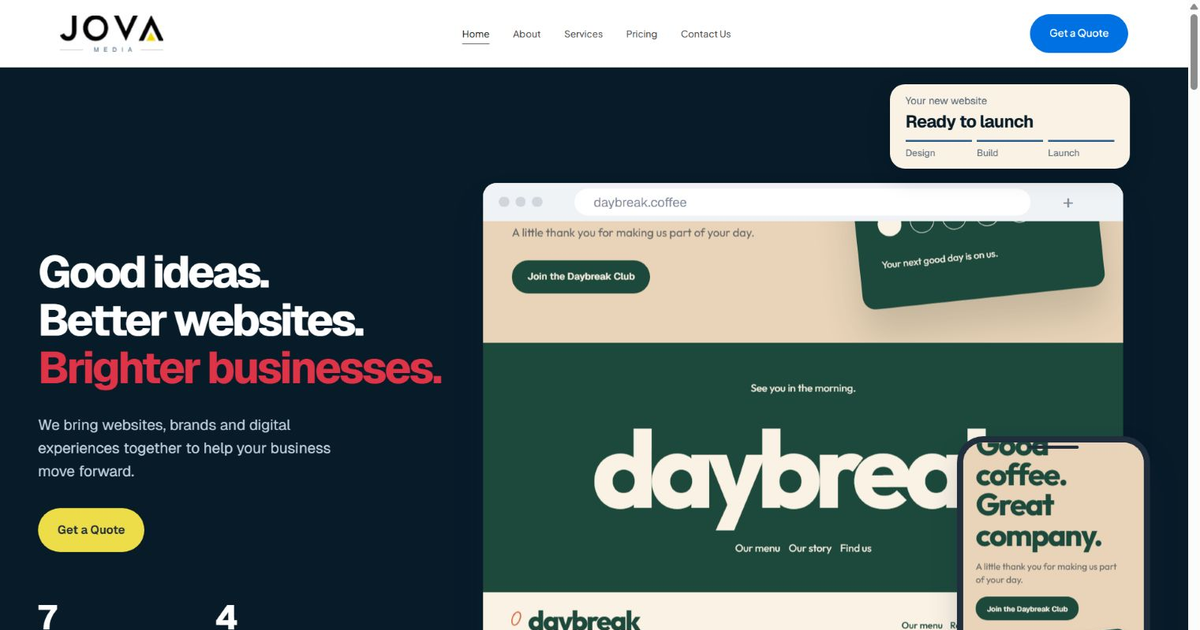
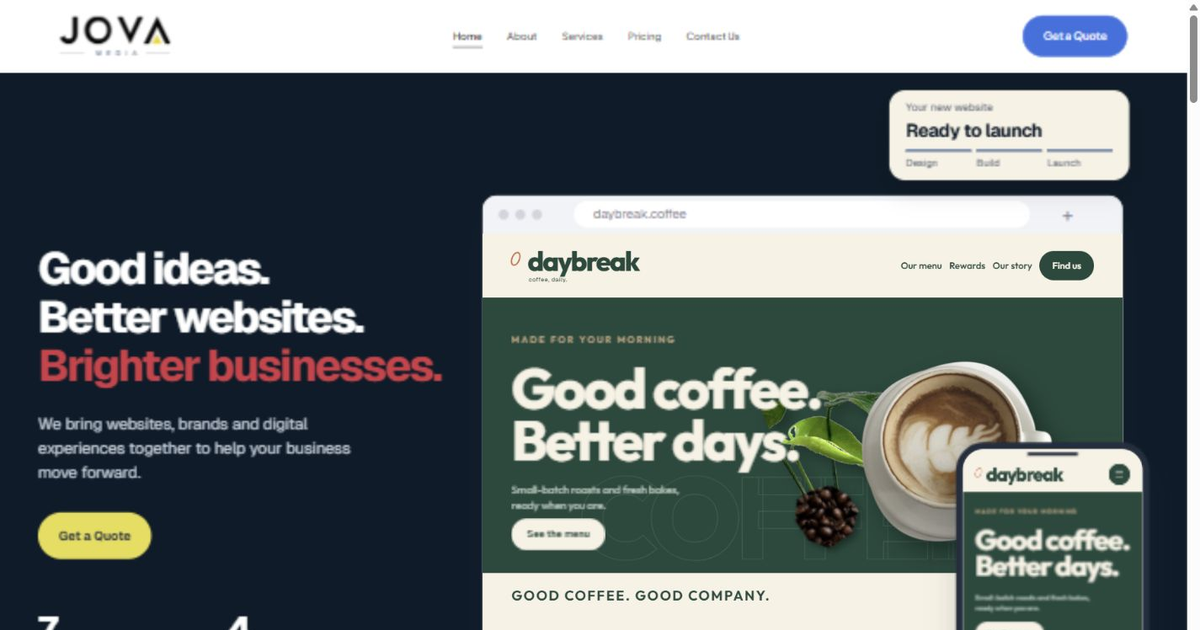
Centre pricing and polish responsive service and FAQ motion

diff --git a/components/StudioHome.js b/components/StudioHome.js
@@ -11,6 +11,7 @@ import WhyJovaPreview from "./WhyJovaPreview";
 import { ProcessStory, FaqStory } from "./ScrollStories";
 import { trackEvent } from "@/lib/marketing-analytics.mjs";
 import s from "./StudioHome.module.css";
+import MotionRegion from "./MotionRegion";
 
 const rows = [
   [["qaiser-watches", "Qaiser Watches"], ["monolith", "Monolith"], ["elise", "Elise"], ["stem-club", "Stem Club"], ["sumera-current", "Sumera’s"], ["tamarind", "Tamarind"], ["bare-form", "Bare Form"], ["margin", "Margin"]],
@@ -68,20 +69,20 @@ export default function StudioHome() {
       </section>
       <section className={s.benefits} aria-labelledby="benefits-title">
         <div className={s.sectionIntro}><p className={s.kicker}>LESS COMPLICATED. MORE CONSIDERED.</p><h2 id="benefits-title">Good design.<br />Built for your business.</h2><p>You bring the ambition. We help turn it into a website, a brand and a clear way forward.</p></div>
-        <div className={s.benefitGrid}>
-          <article><Image className={s.benefitPhoto} src="/home-agency/sketch.webp" alt="Design sketches and ideas" width={800} height={600} sizes="(max-width:600px) 100vw, 30vw" /><h3>Made around you.</h3><p>Your goals, your customers and your personality shape the work. We start with your business.</p></article>
-          <article><Image className={s.benefitPhoto} src="/home-agency/desk.webp" alt="A workspace for planning and collaboration" width={800} height={600} sizes="(max-width:600px) 100vw, 30vw" /><h3>Clear at every stage.</h3><p>Review the design, ask questions and share feedback. You know what is happening and what comes next.</p></article>
-          <article><Image className={s.benefitPhoto} src="/home-agency/objects.webp" alt="Carefully considered studio materials" width={800} height={600} sizes="(max-width:600px) 100vw, 30vw" /><h3>Built with purpose.</h3><p>A good-looking website should help people understand your offer and feel ready to get in touch.</p></article>
-        </div>
+        <MotionRegion className={s.benefitGrid}>
+          <article data-motion-card><Image className={s.benefitPhoto} src="/home-agency/sketch.webp" alt="Design sketches and ideas" width={800} height={600} sizes="(max-width:600px) 100vw, 30vw" /><h3>Made around you.</h3><p>Your goals, your customers and your personality shape the work. We start with your business.</p></article>
+          <article data-motion-card><Image className={s.benefitPhoto} src="/home-agency/desk.webp" alt="A workspace for planning and collaboration" width={800} height={600} sizes="(max-width:600px) 100vw, 30vw" /><h3>Clear at every stage.</h3><p>Review the design, ask questions and share feedback. You know what is happening and what comes next.</p></article>
+          <article data-motion-card><Image className={s.benefitPhoto} src="/home-agency/objects.webp" alt="Carefully considered studio materials" width={800} height={600} sizes="(max-width:600px) 100vw, 30vw" /><h3>Built with purpose.</h3><p>A good-looking website should help people understand your offer and feel ready to get in touch.</p></article>
+        </MotionRegion>
       </section>
       <section className={s.story} data-chapter={chapter} ref={story} aria-labelledby="services-title">
         <div className={s.sticky}>
           <div className={s.storyHeading}><p className={s.kicker}>THE RIGHT TOOLS FOR YOUR NEXT CHAPTER</p><h2 id="services-title">A little more than a website.</h2></div>
           <nav className={s.chapters} aria-label="Explore services">{services.map((service, index) => <button key={service.name} type="button" aria-current={chapter === index ? "step" : undefined} onClick={() => jump(index)}>{service.name}</button>)}</nav>
-          <div className={s.stage}>{services.map((service, index) => <article key={service.name} ref={element => { panels.current[index] = element; }} className={s.service} data-active={chapter === index}>
-            <figure className={s.serviceVisual}><Image src={`/studio-2026/${service.image}.webp`} alt={service.alt} width={1448} height={1086} sizes="(max-width: 900px) 100vw, 58vw" /></figure>
+          <MotionRegion className={s.stage}>{services.map((service, index) => <article key={service.name} ref={element => { panels.current[index] = element; }} className={s.service} data-active={chapter === index}>
+            <figure className={s.serviceVisual} data-motion-card><Image src={`/studio-2026/${service.image}.webp`} alt={service.alt} width={1448} height={1086} sizes="(max-width: 900px) 100vw, 58vw" /></figure>
             <div className={s.serviceCopy}><h3>{service.name}.</h3><h4>{service.intro}</h4><p>{service.copy}</p><ul>{service.points.map(point => <li key={point}><Check size={17} aria-hidden="true" />{point}</li>)}</ul><div className={s.serviceActions}><ConsultationLink className={s.primary} placement="home_intro">Free consultation</ConsultationLink><Link href={service.href} className={s.underlined}>Learn more</Link></div></div>
-          </article>)}</div>
+          </article>)}</MotionRegion>
           <div className={s.moreServices}><Link href="/services" className={s.secondary}>View more services</Link></div>
         </div>
       </section>

diff --git a/components/ProjectFAQ.js b/components/ProjectFAQ.js
@@ -1,8 +1,8 @@
 export default function ProjectFAQ(){return <section className="shell site-faq" aria-labelledby="project-faq-title">
 <h2 id="project-faq-title">Before we start.</h2>
-<details><summary>Can we start with one service?</summary><p>Yes. A focused website, brand or marketing brief can be a starting point. We agree the scope around what your business needs rather than requiring a full programme.</p></details>
-<details><summary>What should I include in an enquiry?</summary><p>Tell us about your business, the problem you want to solve and any timing or budget considerations. A rough brief is enough to begin a conversation.</p></details>
-<details><summary>How are costs and timings agreed?</summary><p>They depend on the scope, deliverables and available resources. A written proposal sets out the work, fees and responsibilities before a project starts.</p></details>
-<details><summary>What happens after I send my enquiry?</summary><p>Select Send enquiry to send your message directly to JovaMedia. You will see a confirmation once our email provider accepts it. We reply within 1–3 working days. If sending fails, your details stay in the form so you can retry or email us directly.</p></details>
-<details><summary>Do I have to accept analytics to contact you?</summary><p>No. You can reject optional analytics and still use the website and enquiry form.</p></details>
+<details name="project-faq"><summary>Can we start with one service?</summary><p>Yes. Start with a focused website, brand or marketing brief. We agree the scope around what your business needs.</p></details>
+<details name="project-faq"><summary>What should I include in an enquiry?</summary><p>Tell us about your business, what you want to achieve and any timing or budget considerations. A rough brief is enough.</p></details>
+<details name="project-faq"><summary>How are costs and timings agreed?</summary><p>We agree the work, fees and timings in a written proposal before your project starts.</p></details>
+<details name="project-faq"><summary>What happens after I send my enquiry?</summary><p>You will see a confirmation when your enquiry is sent. We reply within 1–3 working days. If sending fails, your details stay in the form so you can retry.</p></details>
+<details name="project-faq"><summary>Do I have to accept analytics to contact you?</summary><p>No. You can reject optional analytics and still use the website and enquiry form.</p></details>
 </section>}

diff --git a/app/studio.css b/app/studio.css
@@ -64,3 +64,24 @@
 .jova-pages .contact-page .contact-fit h2{color:#0c2948}
 .jova-pages .contact-page .contact-fit-grid article>span{color:#fff}
 @media(max-width:700px){.jova-pages .contact-page .page-hero{padding:40px 0 46px}.jova-pages .contact-page .contact-intro>div:first-child{text-align:center}}
+
+/* Match all inner-page banners to the homepage navy. */
+.jova-pages .page-hero{background:#071b29;border-bottom-color:#071b29}
+.jova-pages .page-hero h1 em{color:#fff}
+/* Native exclusive disclosures, enhanced where intrinsic-size transitions exist. */
+.jova-pages .site-faq details{padding:0;transition:background .25s}
+.jova-pages .site-faq summary{position:relative;list-style:none;padding:23px 44px;line-height:1.55;min-height:64px}
+.jova-pages .site-faq summary::-webkit-details-marker{display:none}
+.jova-pages .site-faq summary::after{content:"+";position:absolute;right:14px;top:50%;font-size:25px;line-height:1;transform:translateY(-50%);transition:transform .3s cubic-bezier(.16,1,.3,1);color:#235789}
+.jova-pages .site-faq details[open] summary::after{transform:translateY(-50%) rotate(45deg)}
+.jova-pages .site-faq details[open]{background:#edf3f7;border-radius:12px}
+.jova-pages .site-faq details p{margin:0 auto;padding:0 24px 26px;text-align:center;text-wrap:pretty}
+.jova-pages .site-faq summary:focus-visible{outline:3px solid #0071e3;outline-offset:-3px;border-radius:8px}
+@supports(interpolate-size:allow-keywords){
+  .jova-pages details[name]{interpolate-size:allow-keywords}
+  .jova-pages details[name]::details-content{block-size:0;opacity:0;overflow:clip;transition:block-size .32s cubic-bezier(.16,1,.3,1),opacity .25s,content-visibility .32s;transition-behavior:allow-discrete}
+  .jova-pages details[name][open]::details-content{block-size:auto;opacity:1}
+}
+[data-motion-card][data-revealed=true]{animation:jovaCardArrival .65s cubic-bezier(.16,1,.3,1) both}
+@keyframes jovaCardArrival{from{opacity:.35;transform:translateY(20px)}to{opacity:1;transform:none}}
+@media(prefers-reduced-motion:reduce){[data-motion-card][data-revealed=true]{animation:none}.jova-pages details[name]::details-content,.jova-pages .site-faq details,.jova-pages .site-faq summary::after{transition:none}}

diff --git a/components/ProductPackages.js b/components/ProductPackages.js
@@ -4,7 +4,6 @@ import { useEffect, useRef, useState } from "react";
 import { Check } from "lucide-react";
 import { products, productCategories, formatPrice } from "@/lib/products.mjs";
 import { trackEvent } from "@/lib/marketing-analytics.mjs";
-import ConsultationLink from "./ConsultationLink";
 import s from "./Commerce.module.css";
 
 export default function ProductPackages({ homepage = false }) {
@@ -34,12 +33,11 @@ export default function ProductPackages({ homepage = false }) {
             <p className={s.price}>{!product.interval && <small className={s.fromPrice}>From </small>}{formatPrice(product.amount)}{product.interval && <small> / month</small>}<span>{product.interval ? "Monthly website care" : "One-off project"}</span></p>
             <ul className={s.productFeatures} aria-label={`${product.name} includes`}>{product.includes.map(item => <li key={item}><Check size={17} aria-hidden="true" /><span>{item}</span></li>)}</ul>
             <Link href={`/get-a-quote?product=${product.id}`} className={s.button} aria-label={`Get a Quote for ${product.name}`} onClick={() => trackEvent("quote_click", { product_id: product.id, placement: homepage ? "home_packages" : "pricing" })}>Get a Quote</Link>
-            <div className={s.productTerms}><p className={s.cardNote}>{product.note}</p></div>
           </article>;
         })}</div>
       </section>
       </div>
-      <div className={s.packageFootnote}><p>Website prices start from the stated amount and depend on the agreed scope. Hosting, domains and paid software are separate. You supply the copy and images. We confirm the brief, scope and platform compatibility before starting work. Care plans cover one website and the stated monthly allowance.</p><ConsultationLink className={s.textLink} placement={homepage ? "home_packages" : "pricing"} /></div>
+      <div className={s.packageFootnote}><p>{categoryId === "websites" ? "Website prices start from the stated amount. We agree your scope and any separate costs before work begins." : "Care plans cover one website. We agree any work beyond your monthly allowance separately."}</p></div>
     </div>
   </section>;
 }

diff --git a/app/services/[slug]/page.js b/app/services/[slug]/page.js
@@ -47,7 +47,7 @@ export default async function Page({ params }) {
     </div></section>
     {slug === "web-design" && <SelectedConcepts />}
     <section className={`section ${styles.process}`}><div className="shell"><p className="kicker">Working together</p><h2>A clear path from brief to delivery.</h2><div className={styles.processGrid}>{service.process.map((step) => <div key={step.title}><h3>{step.title}</h3><p>{step.text}</p></div>)}</div></div></section>
-    <section className={`section ${styles.questions}`}><div className="shell"><h2>A few useful answers.</h2>{service.faq.map(([question, answer]) => <details className={styles.question} key={question}><summary><span>{question}</span><span className={styles.plus} aria-hidden="true">+</span></summary><div><p>{answer}</p></div></details>)}</div></section>
+    <section className={`section ${styles.questions}`}><div className="shell"><h2>A few useful answers.</h2>{service.faq.map(([question, answer]) => <details name="service-faq" className={styles.question} key={question}><summary><span>{question}</span><span className={styles.plus} aria-hidden="true">+</span></summary><div><p>{answer}</p></div></details>)}</div></section>
     <section className={`section ${styles.custom}`}><div className="shell"><p className="kicker">Made around your brief</p><h2>Let’s make the next step clear.</h2><p className="lead">{service.custom}</p><Link href="/get-a-quote" className="btn">Get a Quote</Link></div></section>
     <section className={`section ${styles.related}`}><div className="shell"><h2>Explore related services</h2><div className={styles.relatedGrid}>{related.map((item) => <Link key={item.slug} href={`/services/${item.slug}`}><h3>{item.name}</h3><p>{item.summary}</p><span className="text-link">Explore service</span></Link>)}</div><Link className="text-link" href="/services">View all services</Link></div></section>
   </main>;

diff --git a/app/services/services.module.css b/app/services/services.module.css
@@ -121,3 +121,16 @@
 .custom{background:#0c2948}
 .custom :global(.kicker){color:#fff}
 @media(max-width:700px){.hero{padding:40px 0 46px}.heroArt{height:270px}.hero :global(.actions){gap:20px}.hero h1{font-size:clamp(36px,9vw,50px)}}
+
+/* Scroll entrances and touch-friendly visual focus. */
+.directoryCard{transition:box-shadow .35s ease,border-color .35s ease,background .35s ease;}
+.directoryCard[data-revealed=true]{animation:serviceArrival .7s cubic-bezier(.16,1,.3,1) both;animation-delay:var(--card-delay,0ms)}
+.directoryCard:nth-child(3n+2){background:#f4f7fa}.directoryCard:nth-child(3n){background:#fff8ed}
+.directoryImage img{transform:scale(1.06);transition:transform 1.1s cubic-bezier(.16,1,.3,1)}
+.directoryCard[data-in-view=true] .directoryImage img{transform:scale(1)}
+@media(hover:hover){.directoryCard:hover{box-shadow:0 16px 35px #071b2914;border-color:#235789}.directoryCard:hover .directoryImage img{transform:scale(1.035)}}
+.cardFoot span{display:inline-flex;align-items:center;gap:12px}.cardFoot span::after{content:"";display:inline-block;width:7px;height:7px;border-top:1.5px solid currentColor;border-right:1.5px solid currentColor;transition:transform .3s}
+.directoryCard:hover .cardFoot span::after,.directoryCard:focus-visible .cardFoot span::after{transform:translate(3px,-3px)}
+@keyframes serviceArrival{from{opacity:.35;transform:translateY(24px) scale(.985)}to{opacity:1;transform:none}}
+@media(max-width:700px){.directoryImage{height:clamp(230px,72vw,340px)}.directoryCard{border-radius:16px}.directoryCard[data-in-view=true]{border-color:#91acbf;box-shadow:0 12px 28px #071b2910}.directoryBody>p{max-width:38ch}}
+@media(prefers-reduced-motion:reduce){.directoryCard[data-revealed=true]{animation:none}.directoryCard,.directoryImage img,.cardFoot span::after{transition:none;transform:none!important}}

diff --git a/app/services/page.js b/app/services/page.js
@@ -4,6 +4,7 @@ import Link from "next/link";
 import { pageMetadata } from "@/lib/seo";
 import { primaryServices } from "@/lib/service-catalogue";
 import styles from "./services.module.css";
+import MotionRegion from "@/components/MotionRegion";
 
 export const metadata = pageMetadata("/services", "Website, Software & Creative Services", "Explore JovaMedia’s seven services: websites, system modernization, social media, brand design, copywriting, email automation and SEO.");
 
@@ -19,8 +20,8 @@ export default function Page() {
     </section>
     <section className={`section ${styles.directory}`} id="services" aria-label="Our seven services">
       <div className="shell">
-        <div className={styles.directoryGrid}>
-          {primaryServices.map((service) => <Link key={service.slug} href={`/services/${service.slug}`} className={styles.directoryCard}>
+        <MotionRegion className={styles.directoryGrid}>
+          {primaryServices.map((service, index) => <Link key={service.slug} href={`/services/${service.slug}`} className={styles.directoryCard} data-motion-card style={{ "--card-delay": `${index % 3 * 70}ms` }}>
             <div className={styles.directoryImage}><Image src={`/service-crafted/${serviceArt[service.slug]}.webp`} alt="" fill sizes="(max-width:700px) 90vw, (max-width:1000px) 45vw, 30vw" /></div>
             <div className={styles.directoryBody}>
               <p className="kicker">{service.eyebrow}</p>
@@ -28,7 +29,7 @@ export default function Page() {
               <div className={styles.cardFoot}><span>Explore service</span></div>
             </div>
           </Link>)}
-        </div>
+        </MotionRegion>
 
       </div>
     </section>

diff --git a/components/Commerce.module.css b/components/Commerce.module.css
@@ -70,3 +70,21 @@
 .steps li::before{content:none}
 .price .fromPrice{font-size:.5em;font-weight:500;letter-spacing:0}
 .categorySection .card .button{justify-content:center}
+
+/* Consistent, centred pricing with one shared scope note. */
+.pageHero,.pricingHero{background:#071b29;border-bottom-color:#071b29}
+.categoryHeading{text-align:center}.categoryHeading p{margin-inline:auto}
+.categorySection .card{text-align:center;align-items:center}
+.categorySection .cardTop{justify-content:center;width:100%}
+.categorySection .price,.categorySection .card h3{width:100%;text-align:center}
+.categorySection .price span{width:100%;text-align:center;margin-inline:auto}
+.categorySection .productFeatures{width:100%}
+.categorySection .productFeatures li{justify-content:center;align-items:center;text-align:center}
+.categorySection .productFeatures li span{max-width:34ch;text-wrap:pretty}
+.categorySection .productFeatures li svg{margin-top:0}
+.categorySection .card .button{margin-top:auto;margin-bottom:0}
+.packageFootnote{display:block;text-align:center;max-width:760px;margin:8px auto 0}
+.packageFootnote p{font-size:12px;line-height:1.7;margin-inline:auto;text-wrap:pretty}
+.categorySection{animation:priceCategoryIn .35s ease-out}
+@keyframes priceCategoryIn{from{opacity:.5;transform:translateY(8px)}to{opacity:1;transform:none}}
+@media(prefers-reduced-motion:reduce){.categorySection{animation:none}}

diff --git a/components/MotionRegion.js b/components/MotionRegion.js
@@ -1,0 +1,29 @@
+"use client";
+
+import { useEffect, useRef } from "react";
+
+// Content is visible before hydration and when motion is disabled.
+export default function MotionRegion({ children, className }) {
+  const root = useRef(null);
+  useEffect(() => {
+    const media = matchMedia("(prefers-reduced-motion: reduce)");
+    let observer;
+    const setup = () => {
+      observer?.disconnect();
+      const cards = root.current.querySelectorAll("[data-motion-card]");
+      cards.forEach(card => { delete card.dataset.revealed; delete card.dataset.inView; });
+      if (media.matches) return;
+      observer = new IntersectionObserver(entries => {
+        entries.forEach(({ target, isIntersecting }) => {
+          target.dataset.inView = String(isIntersecting);
+          if (isIntersecting) target.dataset.revealed = "true";
+        });
+      }, { threshold: .25, rootMargin: "0px 0px -5% 0px" });
+      cards.forEach(card => observer.observe(card));
+    };
+    setup();
+    media.addEventListener("change", setup);
+    return () => { observer?.disconnect(); media.removeEventListener("change", setup); };
+  }, []);
+  return <div className={className} ref={root}>{children}</div>;
+}

diff --git a/components/StudioHome.module.css b/components/StudioHome.module.css
@@ -35,3 +35,8 @@
 @media(min-width:901px){.sticky{top:86px;height:calc(100vh - 86px);min-height:590px;padding-top:28px}.benefits{padding-bottom:75px}}@media(min-width:1800px){.sticky{top:100px;height:calc(100vh - 100px)}}
 
 .sticky .moreServices{padding:12px 0 0;background:transparent;flex-shrink:0}.sticky .moreServices .secondary{min-height:44px;padding:10px 22px;font-size:12px}.story{height:270vh}@media(max-width:900px){.story{height:auto}.sticky .moreServices{padding:0 0 40px}.stage{min-height:0}}@media(prefers-reduced-motion:reduce){.story{height:auto}.sticky .moreServices{padding-bottom:35px}}
+
+.benefitPhoto{transition:transform .9s cubic-bezier(.16,1,.3,1)}
+.benefitGrid article[data-in-view=true] .benefitPhoto{transform:scale(1.025)}
+@media(max-width:900px){.serviceVisual img{transition:transform 1s cubic-bezier(.16,1,.3,1);transform:scale(1.04)}.serviceVisual[data-in-view=true] img{transform:scale(1)}.serviceCopy>p{margin-inline:auto}.chapters{flex-wrap:wrap}.serviceActions{justify-content:center}}
+@media(prefers-reduced-motion:reduce){.benefitPhoto,.serviceVisual img{transform:none!important;transition:none}}

diff --git a/components/Footer.js b/components/Footer.js
@@ -4,7 +4,7 @@ import CookieConsent from "./CookieConsent";
 export default function Footer(){return <footer className="jova-footer">
  <Link href="/" aria-label="JovaMedia home"><Image src="/brand/jova-logo.png" alt="JovaMedia" width={361} height={128}/></Link>
  <div><h3>Studio</h3><Link href="/about">Our story</Link><Link href="/work">Our work</Link><Link href="/services">Our approach</Link></div>
- <div><h3>Services</h3><Link href="/services">Explore our services</Link><Link href="/pricing">Websites & care</Link><Link href="/get-a-quote">Get a Quote</Link><Link href="/contact">Contact Us</Link></div>
+ <div><h3>Services</h3><Link href="/services">Explore our services</Link><Link href="/get-a-quote">Get a Quote</Link><Link href="/contact">Contact Us</Link></div>
  <div><h3>Contact</h3><a href="mailto:support.jovamedia@gmail.com">support.jovamedia@gmail.com</a><Link href="/privacy-policy">Privacy</Link><Link href="/terms">Terms</Link><CookieConsent/></div>
  <p>© {new Date().getFullYear()} JovaMedia<br/>Distinctive digital experiences.</p>
  </footer>}
